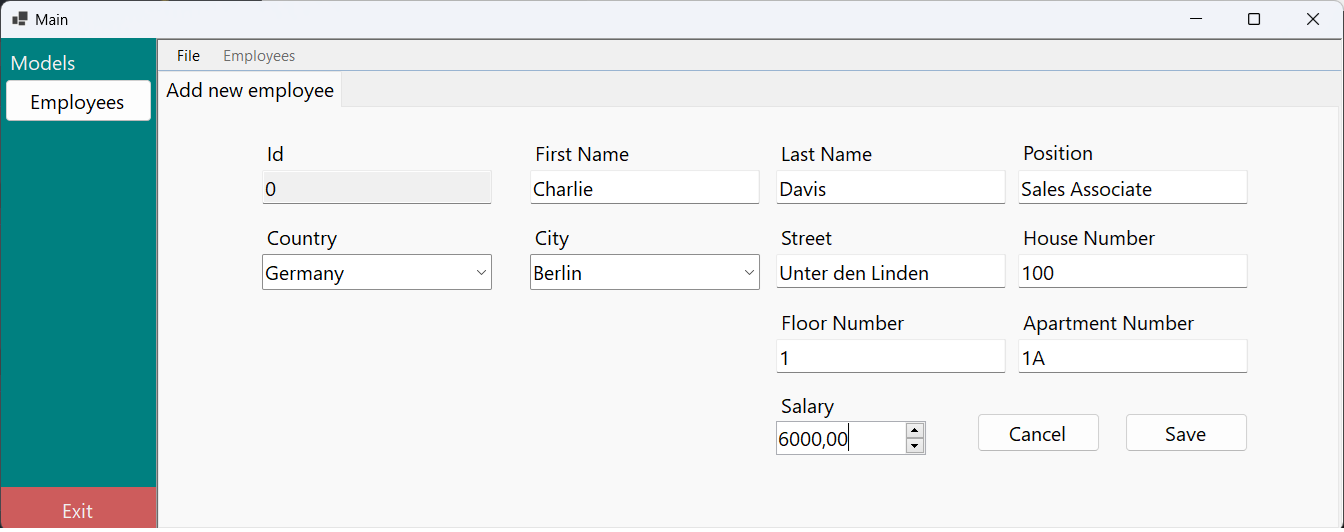
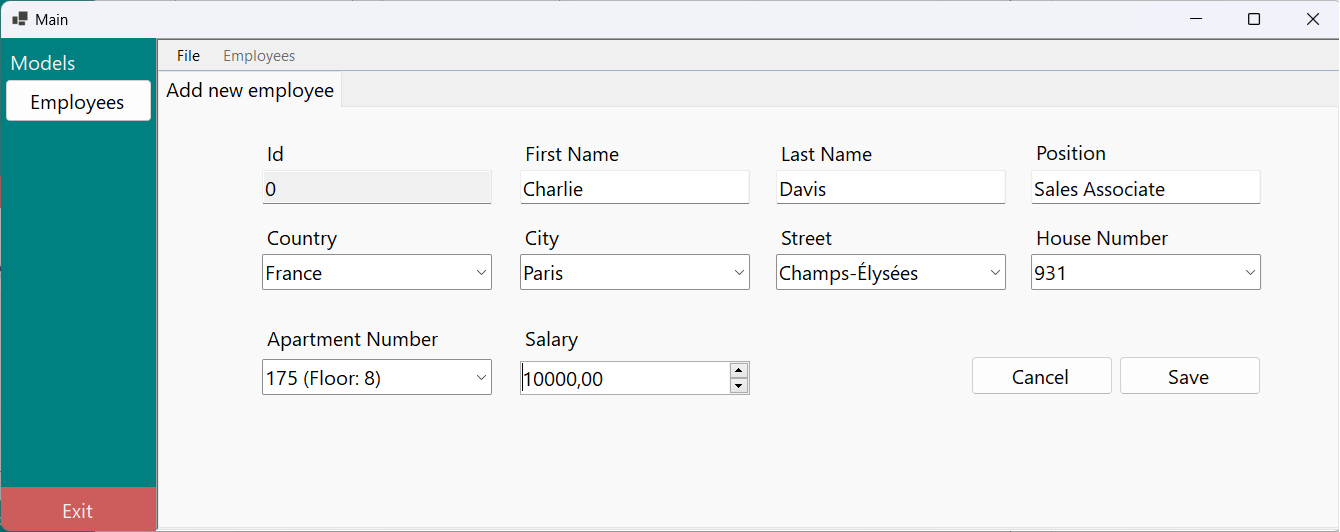
docs: update readme

diff --git a/README.md b/README.md
@@ -1,24 +1,25 @@
 # Employee Management System
 
-This Employee Management System allows for easy management of employees, including adding, editing, and deleting employees, with support for country and city selection. The system includes several key features such as event-driven handling of user inputs and a responsive UI built using WinForms. The project follows the MVP (Model-View-Presenter) pattern.
+This system is designed to streamline employee management, allowing users to add, edit, delete, and view employee details through a user-friendly interface. The system leverages dropdown menus to handle country, city, street, house and apartment selection, ensuring data consistency and flexibility for users. The design follows the **Model-View-Presenter (MVP)** pattern to maintain separation of concerns between the UI and business logic.
 
 ![List](docs/list.png)
 
-## Features
+## Key Features
 
-- **Employee Management**: Add, edit, and delete employees with fields like name, position, salary, and address details.
-- **Country and City Selection**: Users can select a country from a dropdown list, which then loads the corresponding cities. If a required country or city is missing, users can add new ones.
-- **Validation**: Built-in validation for employee details to ensure accurate data entry.
-- **Event-Driven Design**: The UI reacts to user actions using events like `AddNewEvent`, `EditEvent`, `DeleteEvent`, and more.
-- **MVP Architecture**: Follows the Model-View-Presenter architecture to separate concerns, improving testability and maintainability.
+- **Employee Management**: Manage employees by adding, editing, and deleting records with fields such as name, position, salary, and address details (country, city, street, house and apartment).
+- **Data Validation**: Built-in validation for ensuring the accuracy of employee data such as first name, last name, salary, position and location before submission.
+- **MVP Architecture**: The project follows the **MVP pattern**, enhancing testability and maintainability by separating concerns between data models and presentation logic.
+- **Address Management**: In addition to basic employee details, users can manage extended address information through dropdown lists, including country, city, street, house, and apartment number.
 
 ![Add](docs/add1.png)
 
 ## Technologies Used
 
-- **C# / .NET Framework**: The main language used for building the Windows Forms application.
-- **WinForms**: For building the graphical user interface.
-- **MVP Pattern**: Ensures a clear separation of concerns between the UI and business logic.
-- **SQL**: Database connectivity for retrieving and storing employee's data.
+- **C# / .NET Framework**: Core language and framework used for developing the application.
+- **WinForms**: Provides a responsive and interactive graphical user interface.
+- **MVP Architecture**: Helps in organizing the code and making the application scalable and easy to maintain.
+- **SQL Database**: Stores employee information, including relationships between countries, cities, and addresses for easy retrieval and manipulation.
 
 ![Add Other](docs/add2.png)
+
+**Note**: The dropdown lists provide a reference-based selection for fields such as country, city, and other address details, helping users navigate and fill in employee information efficiently beyond just name, salary, and position.
